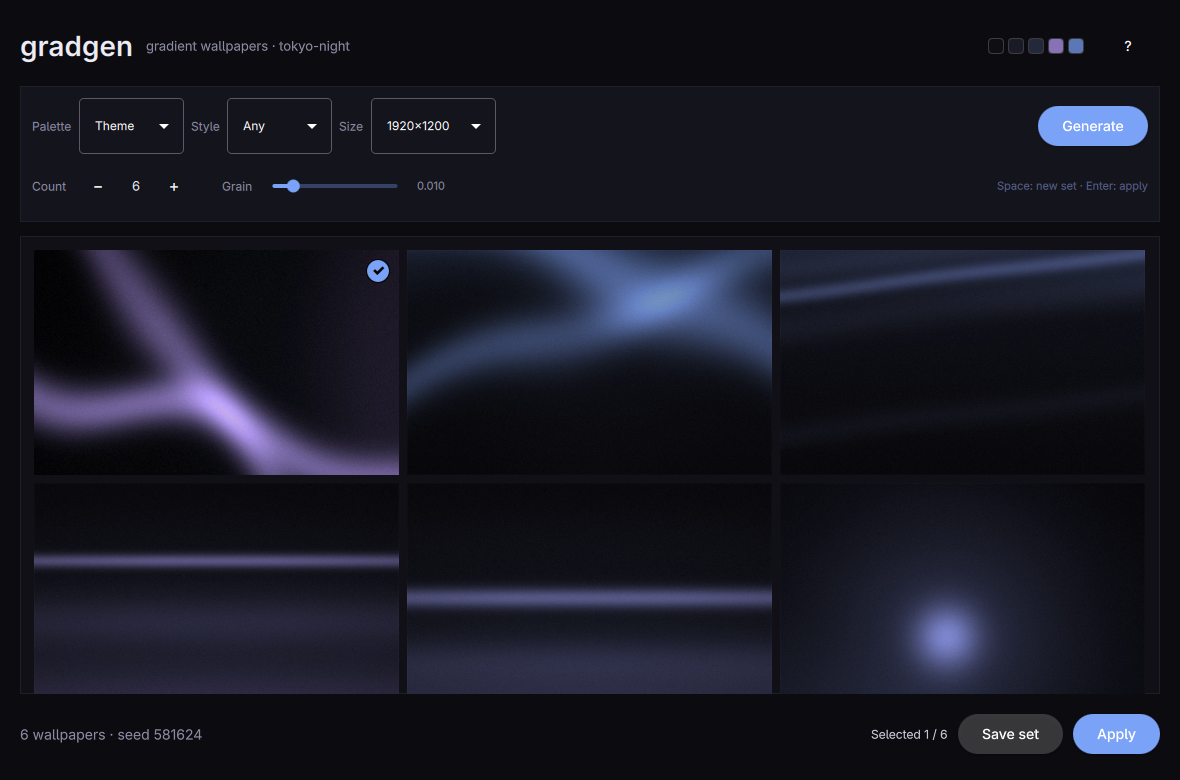
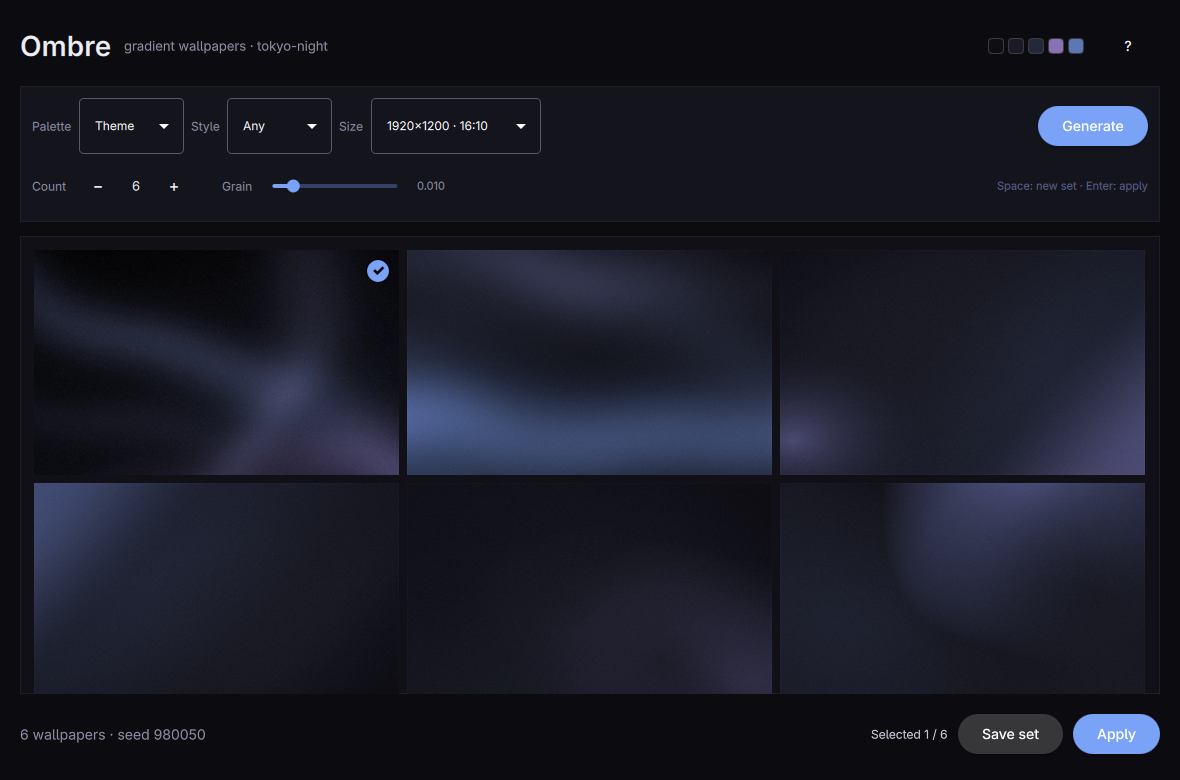
Rename the app to Ombre

diff --git a/src/Main.qml b/src/Main.qml
@@ -11,7 +11,7 @@ ApplicationWindow {
     minimumWidth: 960
     minimumHeight: 620
     visible: true
-    title: "gradgen"
+    title: "Ombre"
     color: "#0b0b10"
 
     Material.theme: Material.Dark
@@ -56,7 +56,7 @@ ApplicationWindow {
                 spacing: 12
 
                 Label {
-                    text: "gradgen"
+                    text: "Ombre"
                     color: "#ececf4"
                     font.pixelSize: 28
                     font.weight: Font.DemiBold

diff --git a/src/backend.cpp b/src/backend.cpp
@@ -37,7 +37,7 @@ Backend::Backend(const QString &currentDirectory, QObject *parent)
       m_previewDirectory(QStandardPaths::writableLocation(QStandardPaths::CacheLocation) + "/preview"),
       m_seed(QRandomGenerator::global()->bounded(1, 1000000)) {
     m_status = tr("Press Space to generate");
-    const QString mode = qEnvironmentVariable("GRADGEN_PALETTE_MODE");
+    const QString mode = qEnvironmentVariable("OMBRE_PALETTE_MODE");
     if (!mode.isEmpty() && paletteModes().contains(mode))
         m_paletteMode = mode;
     refreshTheme();
@@ -161,7 +161,7 @@ void Backend::generate() {
     refreshTheme();
     const QString script = scriptPath();
     if (script.isEmpty()) {
-        fail(tr("Could not find gradgen.py. Install the package or set GRADGEN_SCRIPT."));
+        fail(tr("Could not find gradgen.py. Reinstall Ombre or set GRADGEN_SCRIPT."));
         return;
     }
 
@@ -295,7 +295,7 @@ void Backend::apply(const QString &path) {
 
     // The preview directory is wiped whenever a new set is generated, so keep
     // the chosen image somewhere stable before pointing the desktop at it.
-    const QString directory = QDir::homePath() + "/.local/share/gradgen/applied";
+    const QString directory = QDir::homePath() + "/.local/share/ombre/applied";
     if (!QDir().mkpath(directory)) {
         fail(tr("Could not create %1").arg(directory));
         return;
@@ -341,7 +341,7 @@ void Backend::saveSet() {
 
     int saved = 0;
     for (int i = 0; i < static_cast<int>(m_previews.size()); ++i) {
-        const QString name = QString("gradgen-%1-%2-%3-%4.webp")
+        const QString name = QString("ombre-%1-%2-%3-%4.webp")
                                  .arg(m_paletteMode, m_style, QString::number(m_lastSeed))
                                  .arg(i + 1, 2, 10, QChar('0'));
         const QString target = destination + "/" + name;
@@ -483,7 +483,7 @@ QString Backend::scriptPath() const {
         return override;
 
     const QString installed =
-        QStandardPaths::locate(QStandardPaths::GenericDataLocation, "gradgen/gradgen.py");
+        QStandardPaths::locate(QStandardPaths::GenericDataLocation, "ombre/gradgen.py");
     if (!installed.isEmpty())
         return installed;
 
@@ -492,8 +492,8 @@ QString Backend::scriptPath() const {
     if (QFileInfo::exists(besideBuild))
         return besideBuild;
 
-#ifdef GRADGEN_SOURCE_DIR
-    const QString source = QStringLiteral(GRADGEN_SOURCE_DIR) + "/backend/gradgen.py";
+#ifdef OMBRE_SOURCE_DIR
+    const QString source = QStringLiteral(OMBRE_SOURCE_DIR) + "/backend/gradgen.py";
     if (QFileInfo::exists(source))
         return source;
 #endif

diff --git a/src/main.cpp b/src/main.cpp
@@ -1,4 +1,4 @@
-// gradgen — generate gradient wallpapers from the desktop's own colours.
+// Ombre — generate gradient wallpapers from the desktop's own colours.
 
 #include <QGuiApplication>
 #include <QIcon>
@@ -13,14 +13,14 @@
 
 int main(int argc, char *argv[]) {
     QGuiApplication app(argc, argv);
-    app.setApplicationName("gradgen");
+    app.setApplicationName("ombre");
     app.setApplicationVersion("0.1.0");
     app.setOrganizationName("Omarchy");
 
-    // Matches the window to gradgen.desktop, so the compositor (Wayland app_id)
+    // Matches the window to ombre.desktop, so the compositor (Wayland app_id)
     // and the launcher pick up the installed icon.
-    app.setDesktopFileName("gradgen");
-    app.setWindowIcon(QIcon::fromTheme("gradgen"));
+    app.setDesktopFileName("ombre");
+    app.setWindowIcon(QIcon::fromTheme("ombre"));
 
     QQuickStyle::setStyle("Material");
 

diff --git a/tests/ombre_tests.cpp b/tests/ombre_tests.cpp
@@ -5,7 +5,7 @@
 
 #include "backend.h"
 
-class GradgenTests : public QObject {
+class OmbreTests : public QObject {
     Q_OBJECT
 
 private slots:
@@ -119,12 +119,12 @@ private slots:
 
     void environmentChoosesThePaletteMode()
     {
-        qputenv("GRADGEN_PALETTE_MODE", "custom");
+        qputenv("OMBRE_PALETTE_MODE", "custom");
         QTemporaryDir dir;
         Backend backend(dir.path());
         QVERIFY(backend.paletteModes().contains("custom"));
         QCOMPARE(backend.paletteMode(), QString("custom"));
-        qunsetenv("GRADGEN_PALETTE_MODE");
+        qunsetenv("OMBRE_PALETTE_MODE");
     }
 
     void sizesCoverTheCommonDeskAspectRatios()
@@ -181,5 +181,5 @@ private:
     }
 };
 
-QTEST_MAIN(GradgenTests)
-#include "gradgen_tests.moc"
+QTEST_MAIN(OmbreTests)
+#include "ombre_tests.moc"

diff --git a/README.md b/README.md
@@ -1,6 +1,6 @@
-# gradgen
+# Ombre
 
-![gradgen](docs/screenshot.png)
+![Ombre](docs/screenshot.png)
 
 Gradient wallpapers from your desktop's own colours. Press Space for a fresh
 set, arrow through the candidates, Enter to apply one.
@@ -14,7 +14,7 @@ flow warp, vignette, and grain to stop banding.
 
 ```sh
 bin/build
-build/gradgen
+build/ombre
 ```
 
 `bin/test` builds and runs the backend tests offscreen. `bin/install` builds
@@ -62,16 +62,16 @@ next set will use.
 ## What it writes
 
 - **Apply** keeps a copy of the chosen image in
-  `~/.local/share/gradgen/applied/` (the preview cache is wiped on the next
+  `~/.local/share/ombre/applied/` (the preview cache is wiped on the next
   generation) and runs `omarchy-theme-bg-set`, the same command the Omarchy
   menu and `omarchy theme bg next` use.
 - **Save set** copies the candidates to
   `~/.config/omarchy/backgrounds/<theme-slug>/` and refreshes the background
   switcher thumbnails. Files are named
-  `gradgen-<palette>-<style>-<seed>-<n>.webp`; the seed is what makes a set
+  `ombre-<palette>-<style>-<seed>-<n>.webp`; the seed is what makes a set
   reproducible.
 - Candidate images live in the cache
-  (`~/.cache/gradgen/preview/`) and are replaced on every generation.
+  (`~/.cache/Omarchy/ombre/preview/`) and are replaced on every generation.
 
 Nothing else on disk is touched, and the app never edits Omarchy's packaged
 files.
@@ -79,7 +79,7 @@ files.
 ## Renderer
 
 `backend/gradgen.py` is the standalone generator, installed to
-`/usr/share/gradgen/gradgen.py`. The app finds it there, or next to the build,
+`/usr/share/ombre/gradgen.py`. The app finds it there, or next to the build,
 or through `GRADGEN_SCRIPT`. It needs Python 3 with `numpy` and `Pillow`; if the
 system Python lacks them, the app retries through `uv run --with numpy --with
 pillow` so a dev machine works without system packages.
